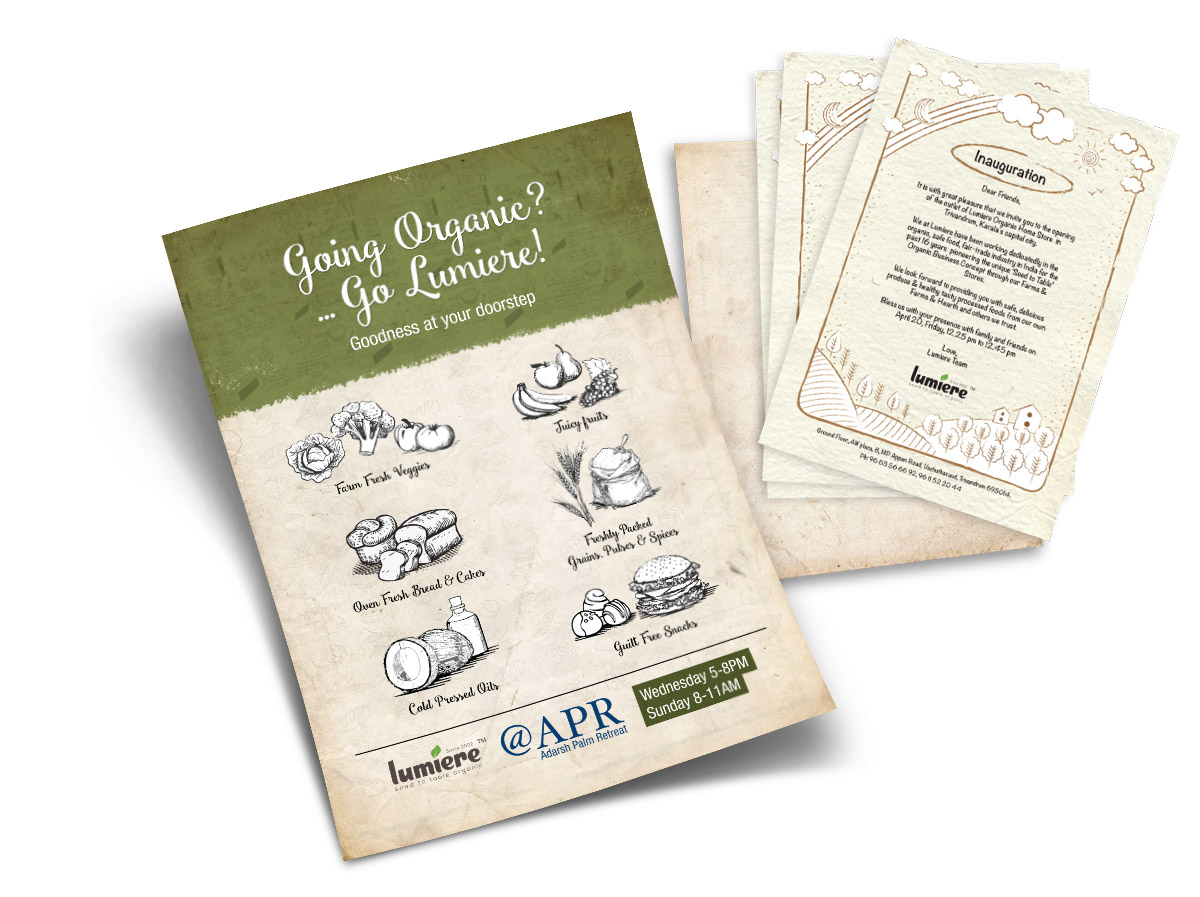
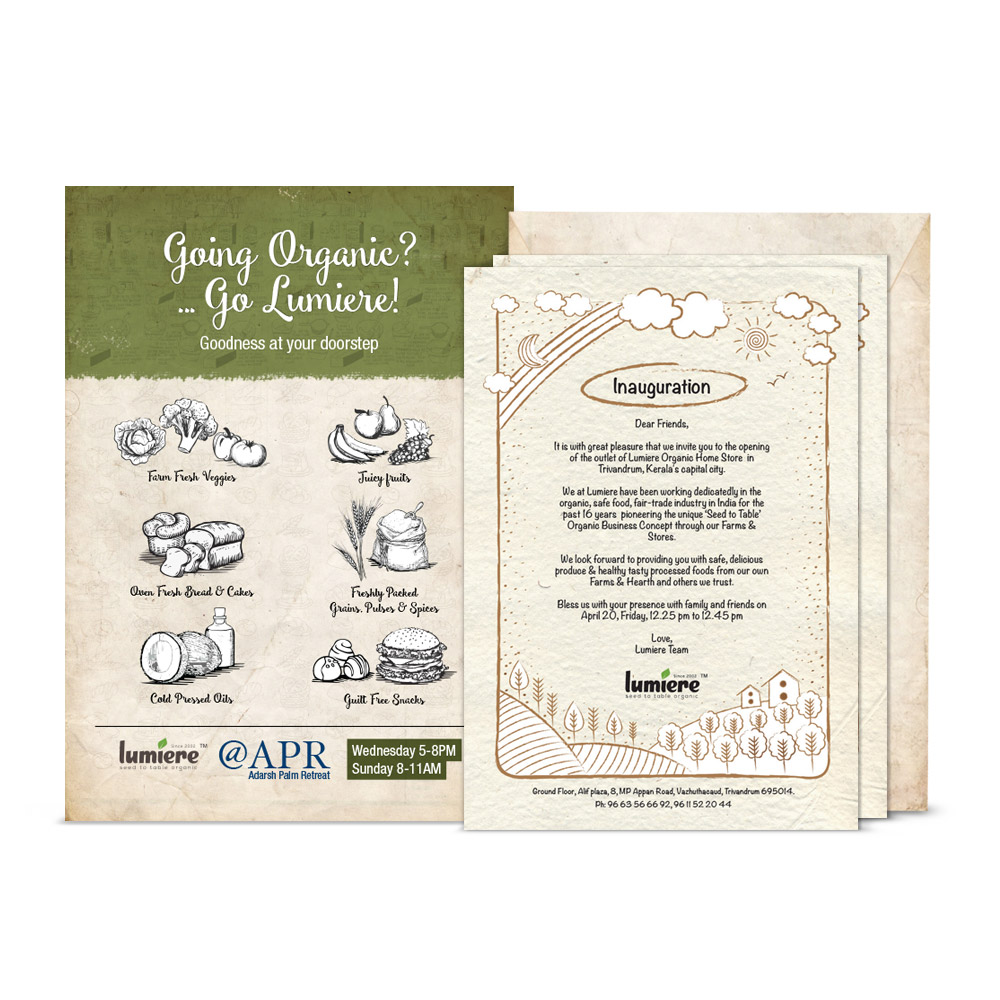
changes

diff --git a/sparcs-new/css/portfolio.css b/sparcs-new/css/portfolio.css
@@ -862,15 +862,14 @@ font-weight: 700;
 }
 #lumiere-portfolio-section2 p{
 color: #444;
-margin-bottom: 0px;
+margin-bottom: 30px;
 font-size: 16px;
 }
 #lumiere-portfolio-section2 .paddingtop300{
 padding-top: 300px;
 }
 #lumiere-portfolio-section2 .img-holder img{
-height:600px;
-width: auto;
+
 }
 /* section3 */
 #lumiere-portfolio-section3{
@@ -908,7 +907,7 @@ font-size: 16px;
 font-size: 64px!important;
 }
 #lumiere-portfolio-section4 .paddingtop300{
-padding-top: 300px;
+padding-top: 10%;
 }
 @media (min-width: 320px) and (max-width: 480px) {
 	#lumiere-portfolio-section1 {

diff --git a/sparcs-new/work/lumiere.php b/sparcs-new/work/lumiere.php
@@ -48,19 +48,30 @@
    portfolio  Section2
    ============================-->
 <section id="lumiere-portfolio-section2">
-   <div class="container">
-      <div class="row">
-         <div class="col-lg-5">
-            <div class="text-holder wow fadeInLeft paddingtop300">
+
+  <div class="container no-padding">
+      <div class="row ">
+         <div class="col-lg-8 auto-margin">
+            <div class="text-holder auto-margin wow fadeIn text-center">
                <h2>Print Designs.</h2>
                <p class="text-muted">Designed attractive invites, fliers.. etc to encourage public to switch over to safe organic options in food & other home products. Generic label for certain sets of products were re-designed to reflect a distinct earthy aesthetic.</p>
             </div>
          </div>
-         <div class="col-lg-7">
-            <div class="img-holder">
-               <img src="<?php echo $path; ?>img/lumiere/lumiere-poster.jpg" class="img-responsive wow fadeInRight auto-margin">
+      </div>
+      <div class="row no-gutters new">
+         <div class="col-lg-6">
+            <div class="img-holder auto-margin wow fadeIn">
+               <img src="<?php echo $path; ?>img/lumiere/lumiere-package.jpg" alt="" class="img-responsive wow fadeIn" style="">
             </div>
          </div>
+         <div class="col-lg-6">
+            <div class="img-holder auto-margin wow fadeIn">
+               <img src="<?php echo $path; ?>img/lumiere/lumiere-poster.jpg" alt="" class="img-responsive wow fadeIn" style="">
+            </div>
+         </div>
+      </div>
+
+   
       </div>
    </div>
 </section>
